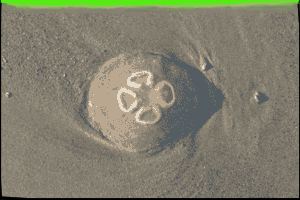
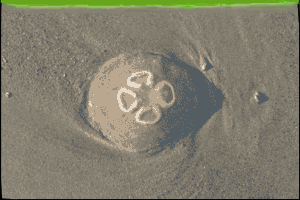
enhanced widget to main pg

Changed region(s): [[0.0, 0.96, 1.0, 1.0], [0.0, 0.0, 1.0, 0.03]]

diff --git a/css/style.css b/css/style.css
@@ -90,7 +90,7 @@ ul li {
 .link-container {
     position: absolute;
     top: 20px; /* Adjust as needed */
-    right: 40px; /* Space from the right edge */
+    right: 20px; /* Space from the right edge */
     display: flex;
     flex-direction: column;
     gap: 10px; /* Spacing between links */
@@ -113,22 +113,33 @@ ul li {
     margin-top: 4px;
     display: block;
 }
-
-/* Be sure the #projects selector is outside h1 */
+/* Be sure the #projects selector is outside h1 or else it could mess the functionality */
 #projects {
     background-color: rgb(238, 221, 172);
     display: block;
     color: rgb(32, 93, 105);
     font-size: 20px; /* removed space between 20 and px */
 }
+.projects-title {
+    margin: 0 0 16px 0;
+    padding: 0 0 20px 16px;   /* same left padding as .projects-grid */
+    color: #111827;
+    font-size: 1.4rem;
+    font-weight: bold;
+}
 .projects-grid {
     display: grid;
-    grid-template-columns: repeat(2, 1fr); /* 2 columns */
-    gap: 20px; /* spacing between boxes */
-    max-width: 960px;
-    margin: 0 auto;
+    /* grid-template-columns: repeat(2, 1fr); This could be removed if otherwise produces 2 columns */
+    grid-template-columns: repeat(2, max-content);
+    width: fit-content;
+    margin: 0;
+    column-gap: 50px; /* spacing between boxes */
+    row-gap: 24px;
+    justify-content: start; /* max-width: 640px; */
     margin-bottom: 0px; /* 👈 Add or reduce this value */
     padding: 20px;
+    box-shadow: none; /* Remove box shadow, because 'panel' has it; */
+    border-radius: 0.75rem; /* Does this border-style give the appearance of one unified glass card behind all? */
 }
 .projects-grid a img {
     width: 100%;
@@ -139,6 +150,24 @@ ul li {
 }
 .projects-grid a img:hover {
     transform: scale(1.05);
+}
+@media (min-width: 900px) {
+    .projects-panel { /* The idea here is to use a media query to adjust the panel's margin on desktop only. */
+        margin-left: 5%;
+        margin-right: auto;
+    } /* Phones: the panel stays centered. */
+    // 💻 Desktop: the panel is nudged slightly left, if you prefer that visual balance.
+}
+.projects-panel {
+    width: min(600px, 95%); /* Key line (in case of phone): shrinks to 95% of the screen width */
+    min-height: 500px;
+    margin: 1rem auto;
+    column-gap: 12px;
+    padding: 20px; /* Below values match the web-pg's background color (55, 65, 81) and opacity (0.45) */
+    background: rgba(55, 65, 81, 0.45);
+    backdrop-filter: blur(2px);
+    border-radius: 16px;
+    box-shadow: 0 8px 24px rgba(0, 0, 0, 0.35);
 }
 /* 👈 Here ends style defs for landing page styles for projec "icons"  */
 /* Below is contact.html related that gives its form a clean layout w/o affecting the rest of site. */

diff --git a/index.html b/index.html
@@ -23,9 +23,9 @@
 </div><!-- input.button to EnterName (foll. by 'Ret/Click', gets handled in script -->
 
   <h3>Welcome to my GitHub Pages site!</h3><!--Welcome! Below JS file produces: a cursor and a carriege return -->
-</form> 
+</form>
 <p id="result"></p>
-<!-- below deifined is a very basic Main Manu and enters JS script-->
+<!-- below defined is a very basic Main Manu and enters JS script-->
 <div id="dtField"></div>
     <script src="salimia.js"></script>  <!-- call for name for a pass that then call [Hi! person] name, returns a Hi-Greeting-->
     <div>
@@ -44,33 +44,37 @@
     </div>
 <div class="container">
     <div class="project-name-container">
-            <div class="projects-grid">
-            <a href="./projects/projext1/index.html"><img src="./assets/1.png" alt="Project 1" style="border: 2px solid red; width: 200px;" /></a>
-            <a href="./projects/projext2/index.html"><img src="./assets/2.png" alt="Project 2" style="border: 2px solid none; width: 200px;" /></a>
-            <a href="./projects/projext3/index.html"><img src="./assets/3.png" alt="Project 3" style="border: 2px solid black; width: 200px;" /></a>
-            <a href="./projects/projext4/index.html"><img src="./assets/4.png" alt="Project 4" style="border: 2px solid solid black; width: 200px;" /></a><!-- this IMGs height made shorter 300x190-->
-            <a href="./projects/projext5/index.html"><img src="./assets/5.png" alt="Project 5" style="border: 2px solid red; width: 200px;" /></a>
-            <a href="./projects/projext6/index.html"><img src="./assets/6.png" alt="Project 6" style="border: 2px solid red; width: 200px;" /></a> 
+        <div class="projects-panel">
+            <h3 class="project-title">Projects:</h3>
+                <div class="projects-grid">
+                    <a href="./projects/projext1/index.html"><img src="./assets/1.png" alt="Project 1" style="border: 0px solid  #70b121; width: 200px;" /></a>
+                    <a href="./projects/projext2/index.html"><img src="./assets/2.png" alt="Project 2" style="border: 0px solid black; width: 200px;" /></a>
+                    <a href="./projects/projext3/index.html"><img src="./assets/3.png" alt="Project 3" style="border: 2px solid  #70b121; width: 200px;" /></a>
+                    <a href="./projects/projext4/index.html"><img src="./assets/4.png" alt="Project 4" style="border: 2px solid #70b121; width: 200px;" /></a><!-- this IMGs height made shorter 300x190-->
+                    <a href="./projects/projext5/index.html"><img src="./assets/5.png" alt="Project 5" style="border: 2px solid black; width: 200px;" /></a>
+                    <a href="./projects/projext6/index.html"><img src="./assets/6.png" alt="Project 6" style="border: 1px solid black; width: 200px;" /></a>
 <!-- Last item has been `TESTed as advised by ChatGPT w/o "<a href=" tag then adding it back, once HREF's didn't have Wrong paths or Wrong file-type,
 COPY was performed to the few above ProjectsGrid-elements  -->
-</div>
-            <h3>Basics:</h3>    
+                </div>
+        </div>
+            <h3>Basics:</h3>
             <img src= './assets/Inet_Lbasics.png' alt="Overview of Inet"/></img>
-            <p id='cardFont'><b>Figure 1: Overview of 'Web-Devel' contained various topics (i.e. the underlying tech).</b></p>    
-        </div> <!-- CUT from above: <a href='./projects/projext1/pr_file.html' target="_blank"> -->
+            <p id='cardFont'><b>Figure 1: Overview of 'Web-Devel' contained various topics (i.e. the underlying tech).</b></p>
+    </div> <!-- CUT from above: <a href='./projects/projext1/pr_file.html' target="_blank"> -->
+</div>
     <div class="intro">
         <b>Tony_JS's</b>
         <p>Portfolio-pg - this a creation of self-learnt front-end 'WebDevel'. A few classes to update skills (down the line/run: was based on [*A prio and also <i>Web2.0</i> CMS's, POST <b>awareness of Web3.0</b> basics: call ext.<i> .js</i> using reference www.w3.schools.com/ & <b>mdn</b> Web docs].</p>
         <p>If you have an <b>IDEA</b> for your website or a simple design, and you choose to present it to me, then I could and we shall see what can be done to build it.</p>
-        <p> Given that your choice is to put your trust in my time'n'effort. Then I can take some time, using my skills I am able to see [w/ aid of <b>AI</b>], how much codeable it is--to get the content shown as well as its dynamic(s). <b>All that can be run online!</b></p> 
+        <p> Given that your choice is to put your trust in my time'n'effort. Then I could 'chip in', using my skills we would see [w/ aid of <b>AI</b>], code results--contentshown as well as its dynamic(s). <b>All that can be run online!</b></p>
     </div>
     <hr />
-    
+
     <section id="projects">
-            
+
     <div id='projectsIntro'><h2>My projects</h2>
         <p> Above PROJECTS [see ICONs] allow You to take a glimpse of, briefly presented, projects. I was able to gather these (and such in them I can consider having grasped the basics of coding. It is common sense and by default that ideally the <b>idea</b> would become based on 'No-Need to Reinvent the Wheel'. As sometimes,  w/'classes to tap in' JavaScript or other underlying Web-page's code, these solutions can seemingly do simple things like formatting textual presentation as well as drawing shapes of different color on the browser's screen).<br />
-            Clicking on each [ICON (as these Sub-Pg's are <u>NOT Complete</u>, not yet!)] should open CODE content in browser tab.<br /> 
+            Clicking on each [ICON (as these Sub-Pg's are <u>NOT Complete</u>, not yet!)] should open CODE content in browser tab.<br />
             <i class="fas fa-arrow-up"></i><span class="blue-text">So.. All-in-all, </span>this entire site was build with HTML/CSS, and also is an exercise of JavaScript (as the underlying technical logic).
         </p>
     <!-- using symbolic chars from font-awesome!However, it seems change of partial txt color could work from style.css-->

diff --git a/projects/projext4/vknmom.js b/projects/projext4/vknmom.js
@@ -8,9 +8,9 @@ function initGreeting() {
   } else if (now.getHours() < 9) {
     dtString = "Good morning!";
   } else if (now.getHours() < 17) {
-    dtString = "No surfing during working hours";
+    dtString = "No surfing when you design.";
   } else {
-    dtString = "Good Evening!";
+    dtString = "Good Evening! Now relax...";
   }
   document.getElementById("dateField").innerHTML = dtString;
   document.getElementById("dateField").style.color = "#ff0099";

diff --git a/pages/contact.html b/pages/contact.html
@@ -65,7 +65,7 @@
             Contact Me
             <h2>Expect no reply</h2>
             <div class="message-container">
-                Please kindly comment or express in few words, a virtual 'Tea/Coffee break'<br />[eg. Happy coding,
+                Please kindly comment or express in few words, taking virtual 'Tea/Coffee break'<br />[eg. Happy coding,
                 'Many thanks' or so].<br />
                 Explored the site? [it's all in Github]<br />Enjoying its examples for
                 Your learning?<br />